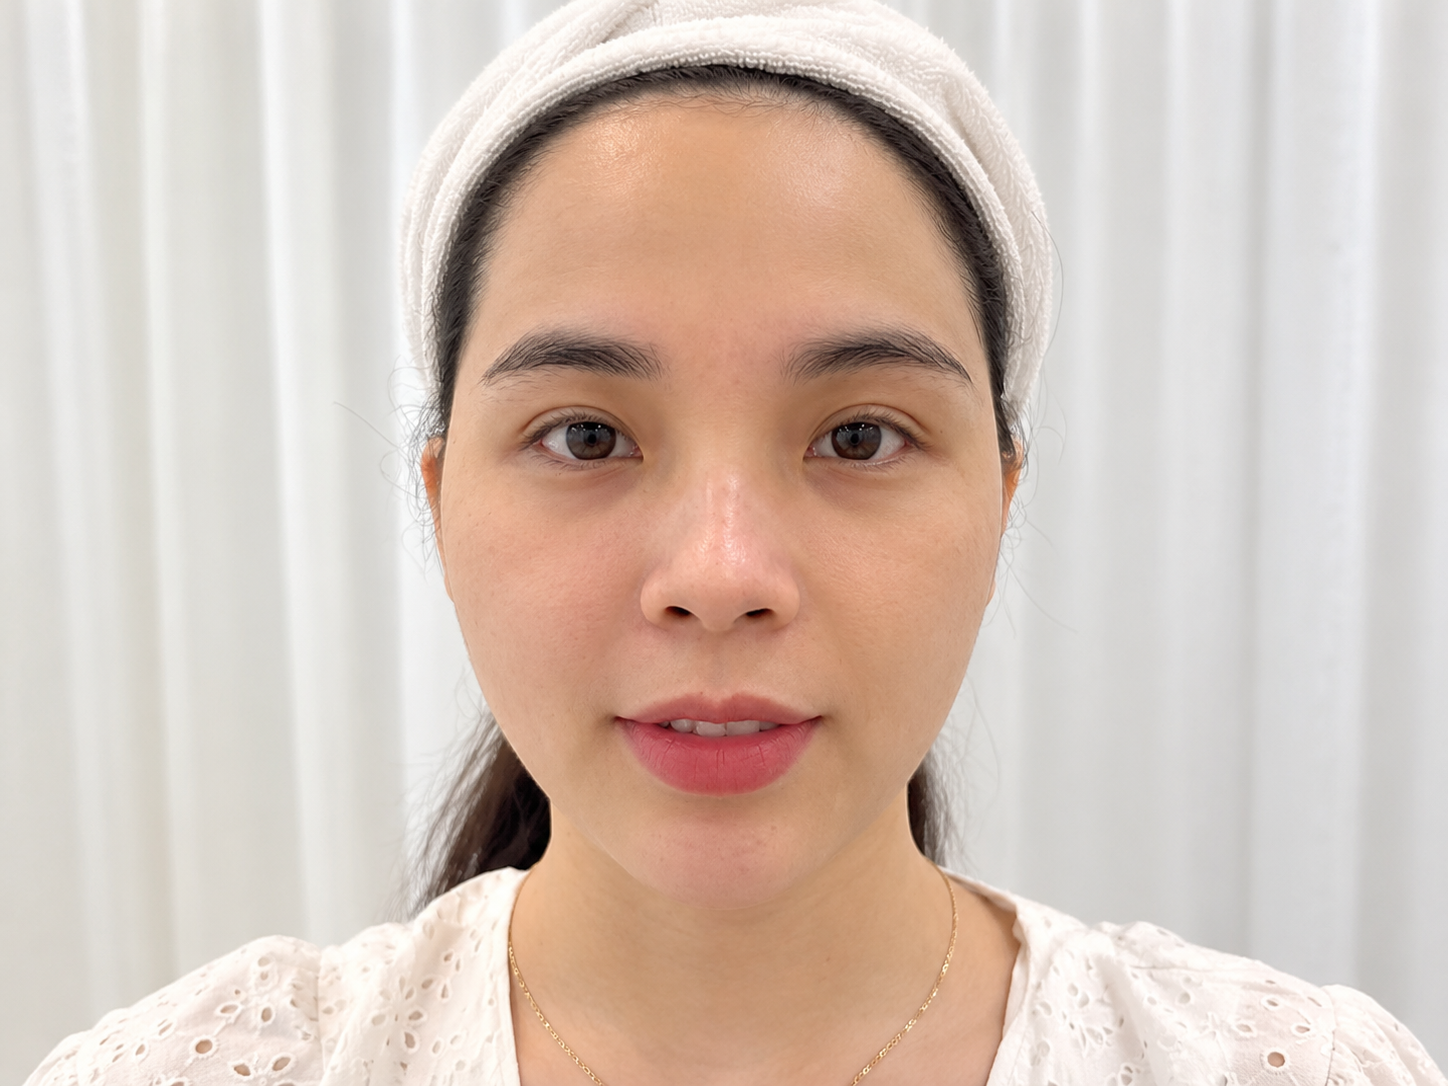
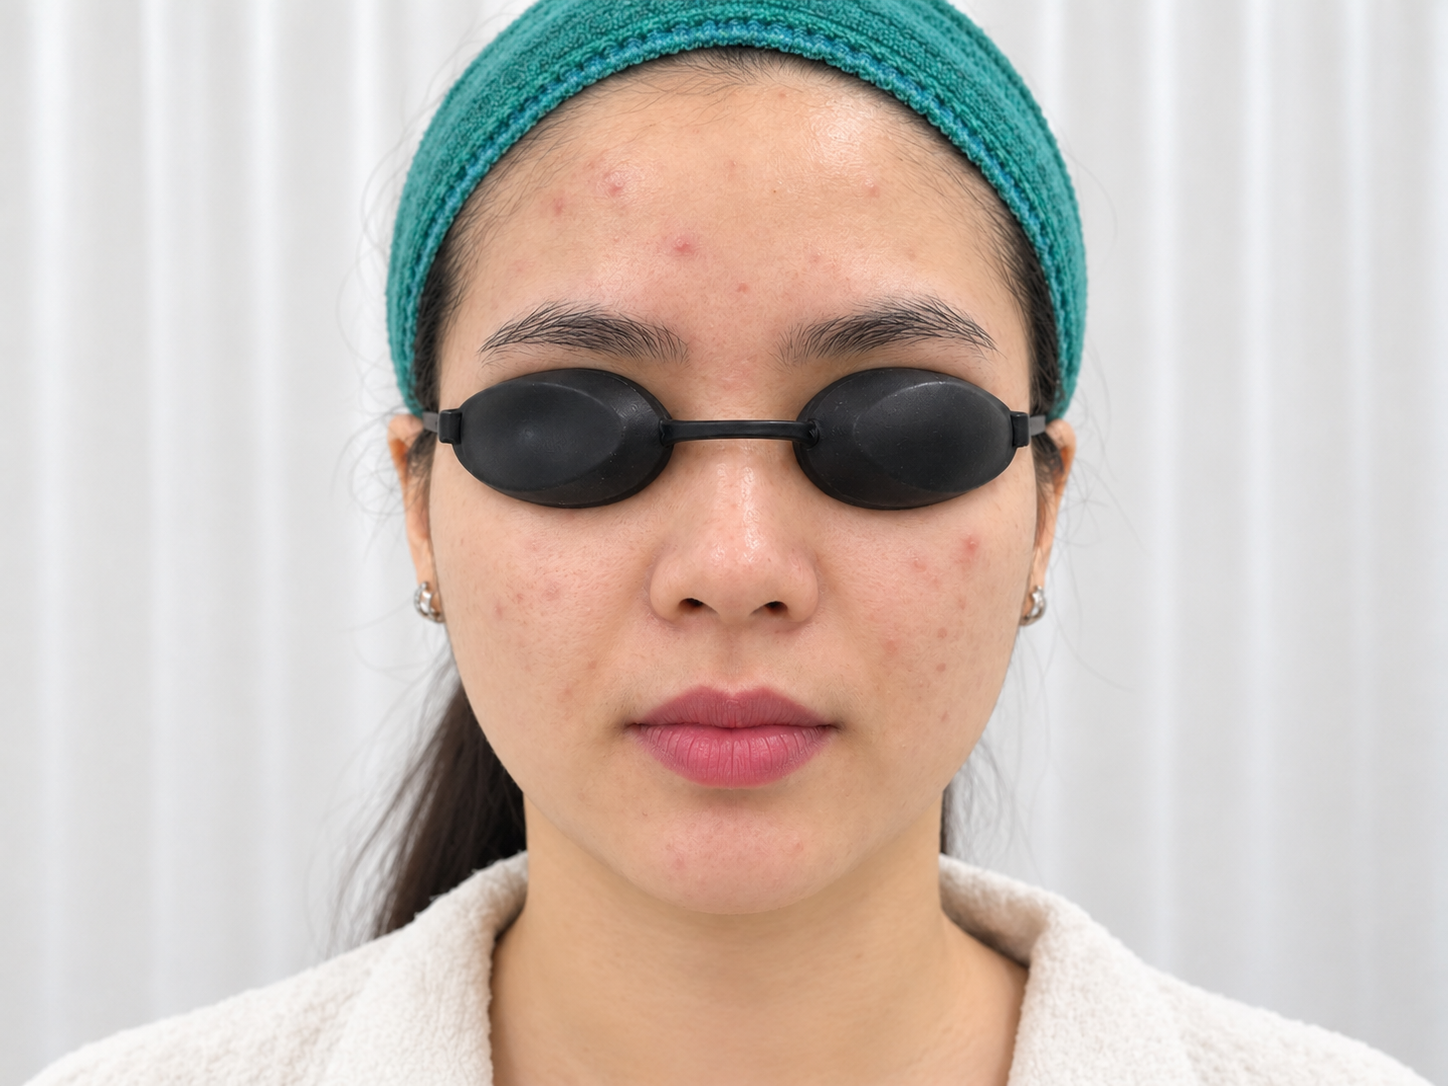
Fix production build errors

diff --git a/src/components/Services/ServiceDetailModal.jsx b/src/components/Services/ServiceDetailModal.jsx
@@ -281,7 +281,7 @@ export default function ServiceDetailModal({
           <section className={styles.resultSection}>
             <div className={styles.resultHeader}>
               <h4 className={styles.sectionTitle}>
-                Hiệu quả sau quá trình (Kéo thanh để đối chiếu)
+                Hiệu quả sau quá trình
               </h4>
               <p className={styles.sectionIntro}>{service.outcomeSummary}</p>
             </div>
